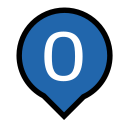
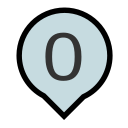
New map marker colours

diff --git a/ClimateExplorer.Data.Misc/Program.cs b/ClimateExplorer.Data.Misc/Program.cs
@@ -152,38 +152,38 @@ static void GenerateMapMarkers()
 {
     var fillColours = new List<string>
     {
-        "#053061", // negative
-        "#2166AC", // zero
+        "#053061", // negative (deep cold blue)
 
-        "#ffffff", // 1
-        "#ffffff",
-        "#ffffd0",
-        "#ffffd0",
-        "#e4bd7d",
-        "#e4bd7d",
-        "#ce7642",
-        "#b2182b",
-        "#67001f", // 9
+        "#c6dbe0", // 0 (light blue)
+        "#deebf7", // 1 (pale blue)
+        "#ffefef", // 2
+        "#fee8c8", // 3 (warm cream)
+        "#fdd49e", // 4 (light orange)
+        "#fdbb84", // 5 (orange)
+        "#fc8d59", // 6 (orange-red)
+        "#ef6548", // 7 (red-orange)
+        "#d7301f", // 8 (strong red)
+        "#67001f", // 9 (deep hot red)
 
-        "#D0D0D0", // ?
+        "#D0D0D0", // ? (neutral/unknown)
     };
 
     var textColours = new List<string>
     {
-        "#ffffff",
-        "#ffffff",
+        "#ffffff", // negative (dark fill → white text)
 
-        "#333333",
-        "#000000",
-        "#666666",
-        "#333333",
-        "#333333",
-        "#ffffff",
-        "#ffffff",
-        "#ffffff",
-        "#ffffff",
+        "#333333", // 0 (light fill → dark text)
+        "#333333", // 1
+        "#333333", // 2
+        "#333333", // 3
+        "#333333", // 4
+        "#333333", // 5
+        "#ffffff", // 6
+        "#ffffff", // 7
+        "#ffffff", // 8
+        "#ffffff", // 9
 
-        "#ffffff",
+        "#333333", // ? (neutral grey → dark text)
     };
 
     for (var i = -1; i < 11; i++)
